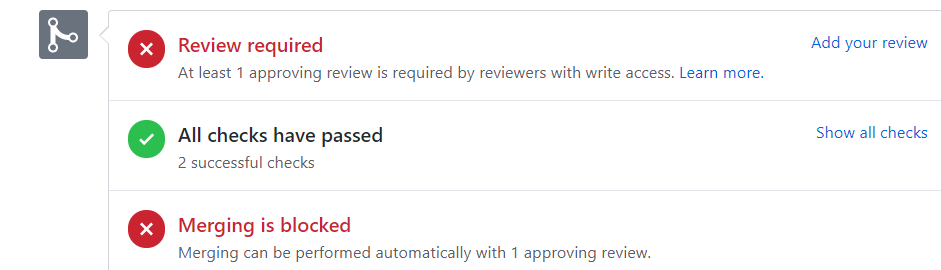
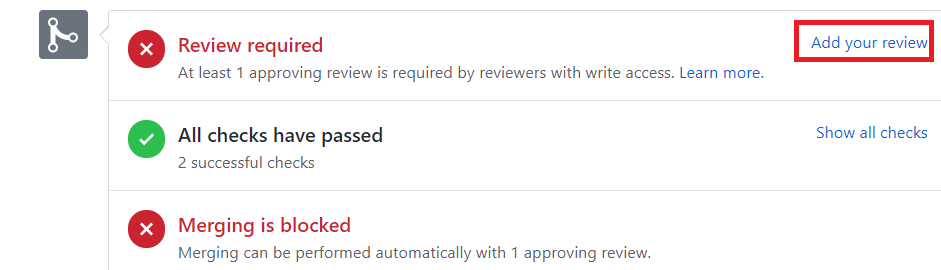
add stuff

Changed region(s): [[0.8321, 0.0593, 1.0, 0.237]]

diff --git a/jenkins-build-test-deliver/step8.md b/jenkins-build-test-deliver/step8.md
@@ -1,1 +1,60 @@
 # Fix the error, push again, and review
+
+Do the following steps:
+
+1. In `Browser_Admin`, as mentioned before, you have three tabs already open: one tab for your `<GITHUB_ADMIN_USER>` account on Github, one tab for Katacoda tutorial, and one tab for the Jenkins server via URL https://[[HOST_SUBDOMAIN]]-8080-[[KATACODA_HOST]].environments.katacoda.com/.
+
+1. Now, go to the terminal in the Katacoda tutorial, and execute `pwd`{{execute}}, and make sure that the output is `<ANY PATH>/sample-project-repo`, where `<ANY PATH>` indicates any path.
+
+1. Now execute `sed -i 's/return \"Worl\"/return \"World\"/g' ./src/main/java/com/sample/project/App.java`{{execute}}. This will replace the world `return "Worl"` with `return "World"` in the `App.java` file to fix the error that we introduced in Step 7.
+
+1. Now execute `cat ./src/main/java/com/sample/project/App.java`{{execute}}. This will show you the content of `App.java` file. You should see an output similar to this.
+```java
+public class App
+{
+    public static void main( String[] args )
+    {
+        System.out.println(getHelloString() + " " + getWorldString());
+    }
+    public static String getHelloString(){
+        return "Hello";
+    }
+    public static String getWorldString(){
+        return "World";
+    }
+}
+```
+
+1. Now, execute `git add .`{{execute}}, and then `git commit -m "Fix getWorldString method"`{{execute}}.
+
+1. Now, execute `git push -u origin issue/1`{{execute}} to push the new code to the Github repo fork. The terminal will ask you to enter a github username. Type in your `<GITHUB_WRITE_USER>` account name (**Observe that:** we are pushing the code using `<GITHUB_WRITE_USER>` and not `<GITHUB_ADMIN_USER>`). In my case, `<GITHUB_WRITE_USER>`=`georgewba2015`. So, I will type `georgewba2015`. It will then ask you for the password. Type in the password of `<GITHUB_WRITE_USER>` account.
+
+1. If the username and password are correct, the new code will be pushed to a new branch called `issue/1` on Github. After some time, this should trigger Jenkins to checkout the code and build the pipeline.
+
+1. Now, go to the Jenkins server page https://[[HOST_SUBDOMAIN]]-8080-[[KATACODA_HOST]].environments.katacoda.com/job/sample-project-pipeline/. After some time, refresh the page. You should see that Jenkins detected a new push to branch `issue/1`.  
+![](./assets/success_jenkins.png)
+
+1. After some time, when Jenkins is done, refresh the page. The sphere beside `issue/1` branch should be green now instead indicating that the pipeline successful. Now, click on `issue/1`.  
+![](./assets/success_jenkins_issue_1.png)
+
+1. Now you should see that there are two build `#1` and `#2` for branch `issue/1`. You will also notice that build `#2` is now successful. You will also see that an artifact was also built because build `#2` was now successful.  
+![](./assets/success_jenkins_pipeline.png)
+
+1. Now, go to `https://github.com/<ORGANIZATION ACCOUNT NAME>/sample-project-repo/tree/issue/1`. You will see that a `success` status in latest commit status.  
+![](./assets/commit_status.png)
+
+1. Now, also in the same `Browser_Admin` (i.e. using `<GITHUB_ADMIN_USER>` account), click on `Pull requests` at the top to see the pull requests list.  
+![](./assets/click_pr.png)
+
+1. Now, you will see the pull requests list. Click on the open pull request.  
+![](./assets/pr_list.png)
+
+1. Now, click on `Add your review`.  
+![](./assets/add_review.png)
+
+1. Then, click on `Review changes`. Then, write any comment in the comment field, and select `Approve`. Then, click on `Submit review`.  
+![](./assets/approve.png)
+
+Now, `<GITHUB_ADMIN_USER>` have approved the pull request.
+
+## Use `<GITHUB_WRITE_USER>` to merge the pull request.

diff --git a/jenkins-build-test-deliver/step7.md b/jenkins-build-test-deliver/step7.md
@@ -7,17 +7,14 @@ Do the following steps:
 
 1. In `Browser_Admin`, as mentioned before, you have three tabs already open: one tab for your `<GITHUB_ADMIN_USER>` account on Github, one tab for Katacoda tutorial, and one tab for the Jenkins server via URL https://[[HOST_SUBDOMAIN]]-8080-[[KATACODA_HOST]].environments.katacoda.com/.
 
-1. Now, in `BrowserAdmin`, go to your organization's repo fork `https://github.com/<ORGANIZATION ACCOUNT NAME>/sample-project-repo`{{copy}} (and sign in as `<GITHUB_ADMIN_USER>` if you are not already), where `<ORGANIZATION ACCOUNT NAME>` is replaced by your organization's account name. In my case, this URL is `https://github.com/devops-pipeline-tutorial/sample-project-repo`.
-
-1. Then, in a new browser tab, go to the URL of the repo fork `https://github.com/<ORGANIZATION ACCOUNT NAME>/sample-project-repo`{{copy}} (and sign in as `<GITHUB_ADMIN_USER>` if you are not already), where `<ORGANIZATION ACCOUNT NAME>` is your organization account name. In my case, the URL is `https://github.com/devops-pipeline-tutorial/sample-project-repo`. Then, click `Clone or download`. Then, click `Use HTTPS` if `Clone with HTTPS` is not seen. Then, click on the `Copy to clipboard` sign to copy the `repo URL`.  
+1. Now, in `BrowserAdmin`, go to your organization's repo fork `https://github.com/<ORGANIZATION ACCOUNT NAME>/sample-project-repo`{{copy}} (and sign in as `<GITHUB_ADMIN_USER>` if you are not already), where `<ORGANIZATION ACCOUNT NAME>` is replaced by your organization's account name. In my case, this URL is `https://github.com/devops-pipeline-tutorial/sample-project-repo`. Then, click `Clone or download`. Then, click `Use HTTPS` if `Clone with HTTPS` is not seen. Then, click on the `Copy to clipboard` sign to copy the `repo URL`.  
 ![](./assets/clone_form.png)
 
 1. Now, go to the terminal in the Katacoda tutorial, and execute `git config --global user.email "<GITHUB_WRITE_USER email>"`{{copy}}, where `<GITHUB_WRITE_USER email>` should be replaced by the email associated with `<GITHUB_WRITE_USER>` account. For example, if `<GITHUB_WRITE_USER email>`=`abc@examplesite.com`, then the command shoudl be `git config --global user.email "abc@examplesite.com"`.
 
-1. Now, go to the terminal in the Katacoda tutorial, and execute `git clone <repo URL>`, where URL is the URL copied in previous step. In my case, I will execute `git clone https://github.com/devops-pipeline-tutorial/sample-project-repo.git`. Note that thr URL that you will use in the `git clone` command is different from the one I am using here. The command that you will execute will be of the form `git clone https://github.com/<ORGANIZATION ACCOUNT NAME>/sample-project-repo.git`{{copy}}, where `<ORGANIZATION ACCOUNT NAME>` is your organization's account name.
+1. Now, execute `git clone <repo URL>`, where URL is the URL copied in previous step. In my case, I will execute `git clone https://github.com/devops-pipeline-tutorial/sample-project-repo.git`. Note that thr URL that you will use in the `git clone` command is different from the one I am using here. The command that you will execute will be of the form `git clone https://github.com/<ORGANIZATION ACCOUNT NAME>/sample-project-repo.git`{{copy}}, where `<ORGANIZATION ACCOUNT NAME>` is your organization's account name.
 
 1. Now execute `cd sample-project-repo/`{{execute}} to in your repo folder.
-
 
 ## Some notes about the repo fork
 
